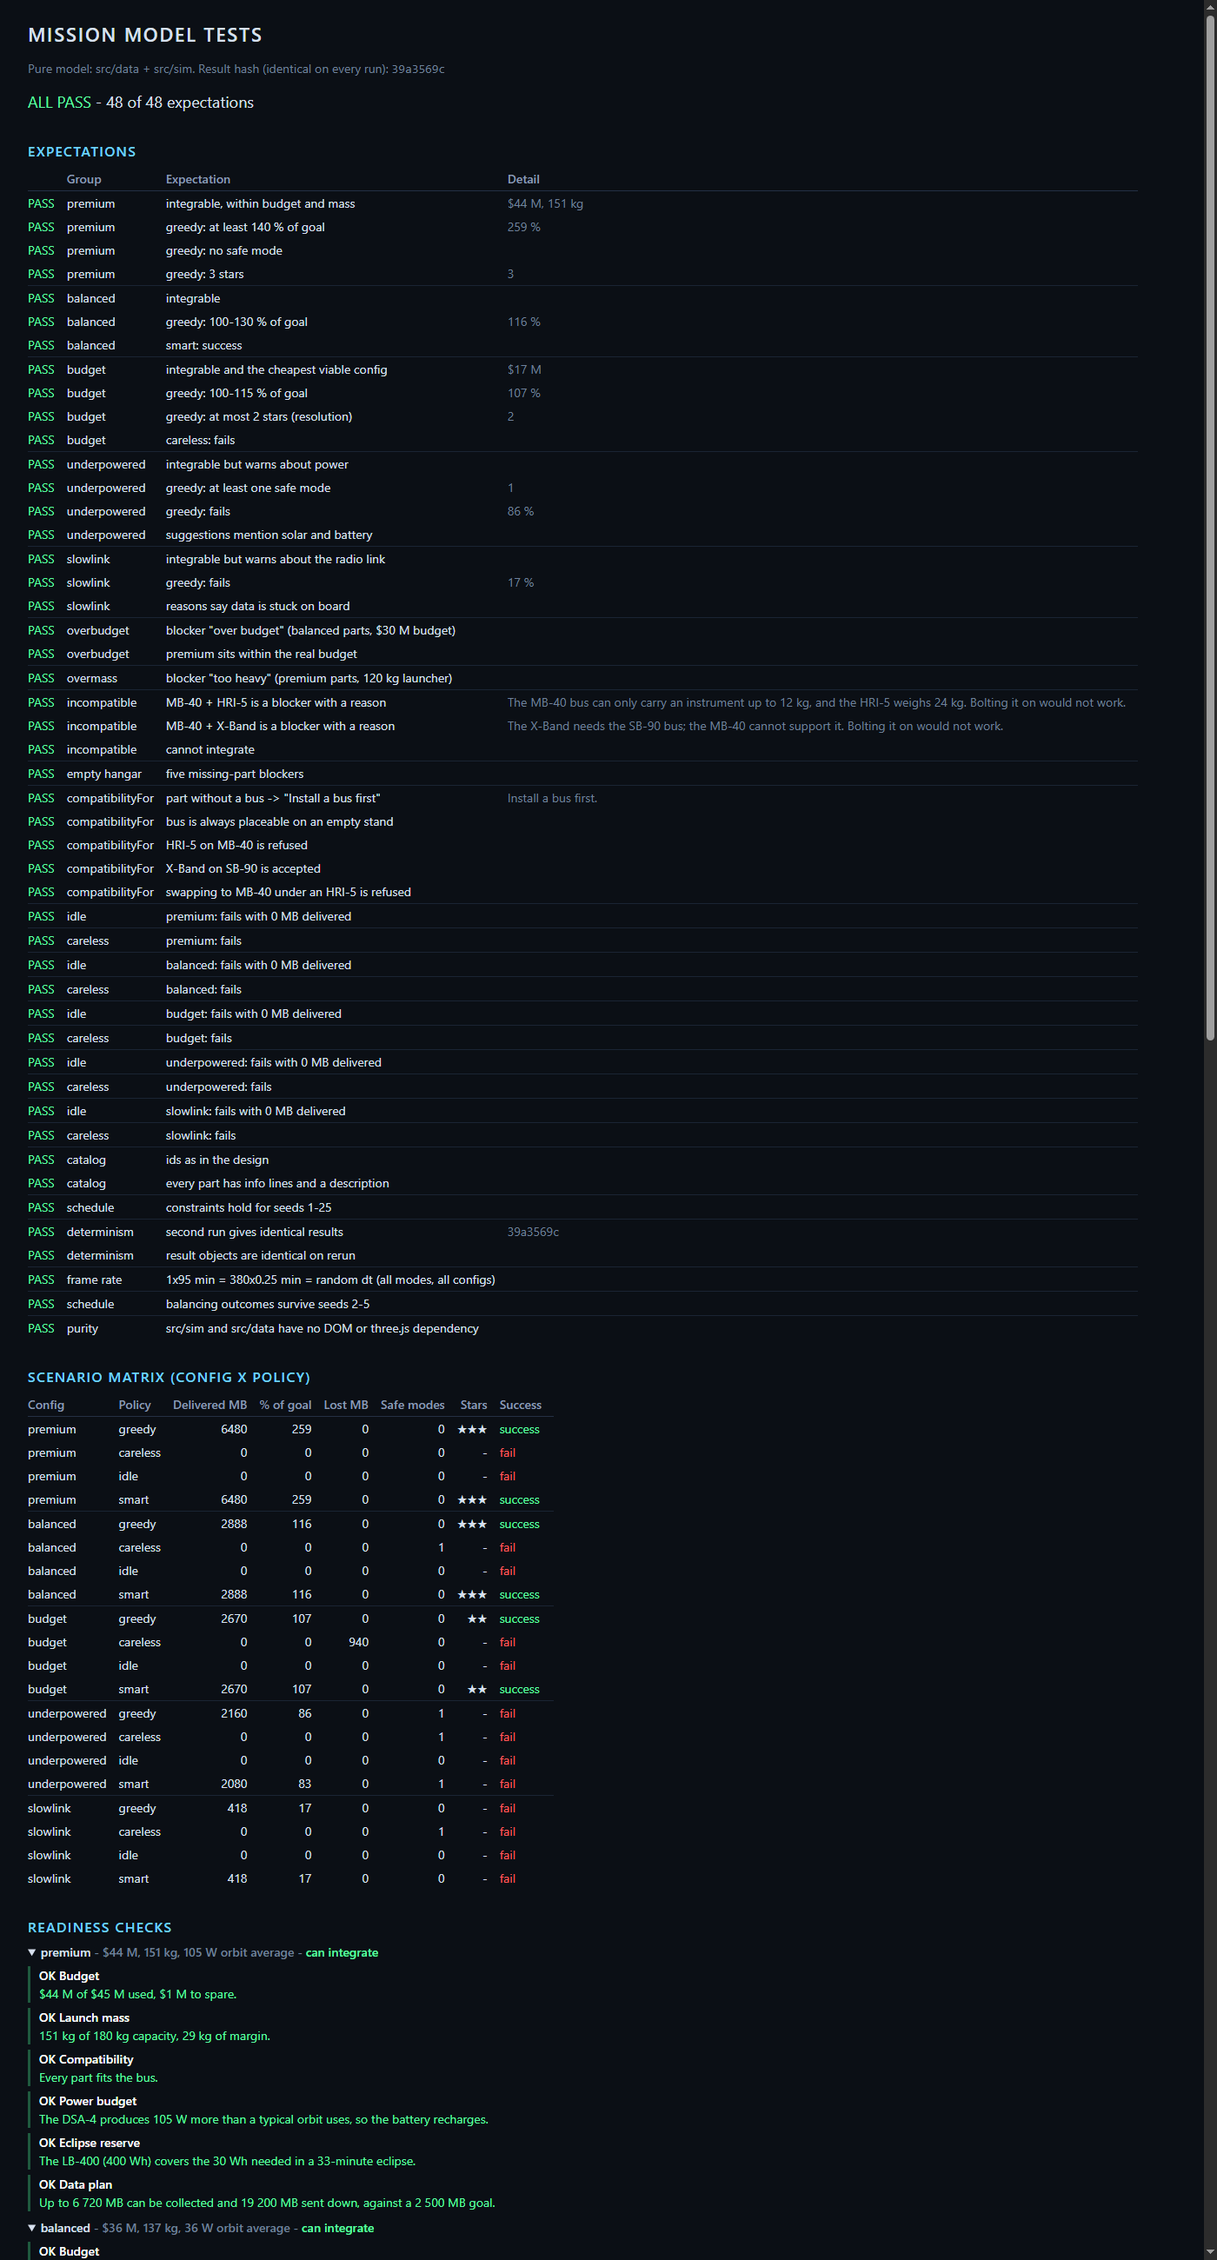
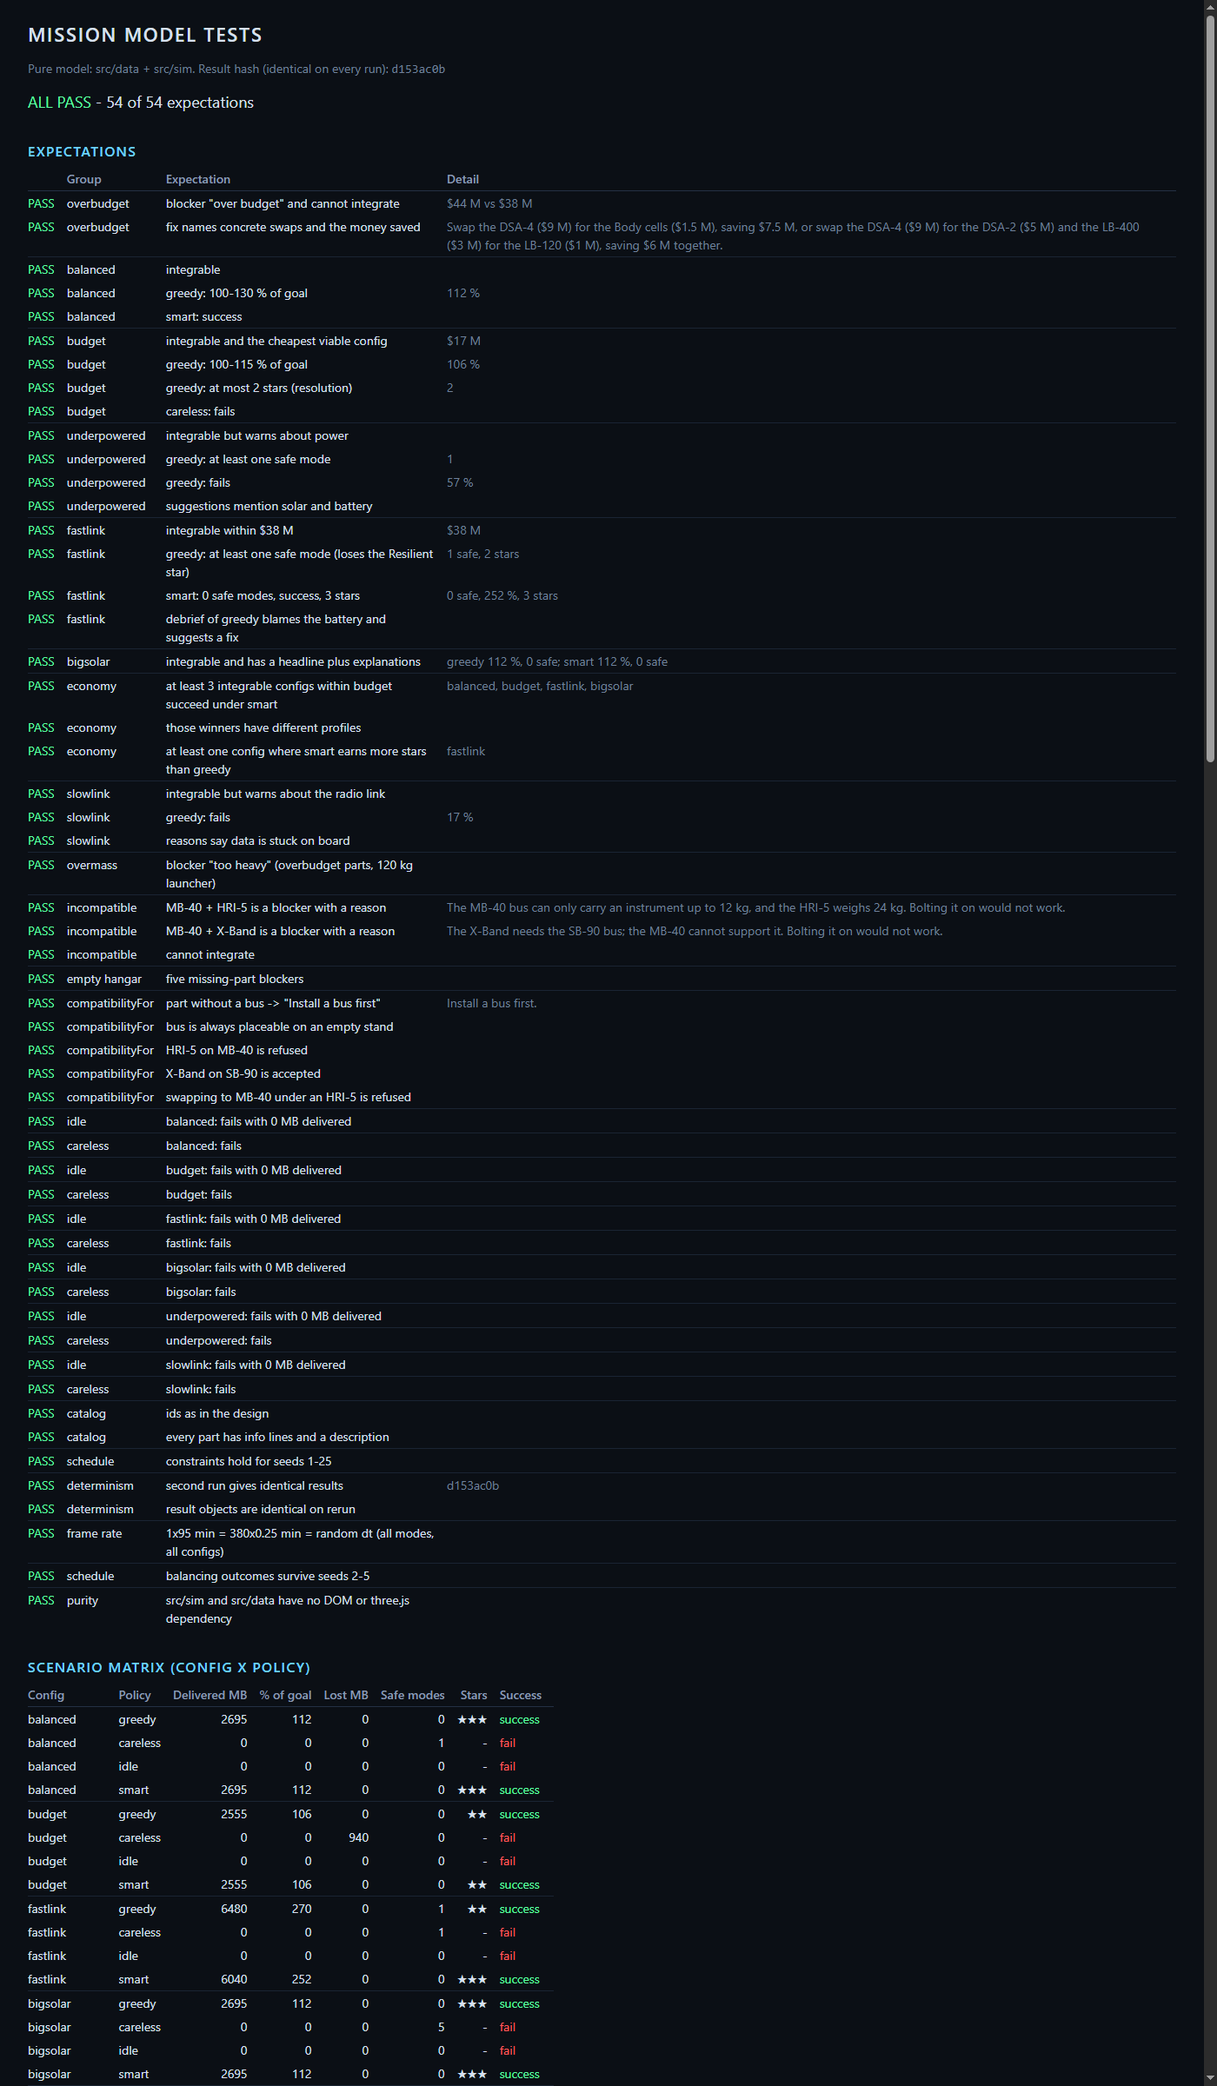
T2 rework: $38M budget, fastlink and bigsolar presets, piloting matters, economy tests

diff --git a/tests/sim-tests.js b/tests/sim-tests.js
@@ -43,12 +43,10 @@ function buildMatrix() {
 }
 
 function readinessReport() {
-  const tight = { ...mission, budgetMusd: 30 };
   const light = { ...mission, capacityKg: 120 };
   const cases = [
     ...Object.entries(presets).map(([name, a]) => [name, a, mission]),
-    ['overbudget (balanced parts, $30 M budget)', presets.balanced, tight],
-    ['overmass (premium parts, 120 kg launcher)', presets.premium, light],
+    ['overmass (overbudget parts, 120 kg launcher)', presets.overbudget, light],
     ['empty hangar', {}, mission],
   ];
   return cases.map(([name, assembly, m]) => ({ name, ...evaluateAssembly(assembly, m) }));
@@ -135,14 +133,12 @@ export async function runSimTests() {
   const hasCheck = (name, id, severity) => ready(name).checks.some((c) => c.id === id && c.severity === severity);
   const detailOf = (name, id) => ready(name).checks.find((c) => c.id === id)?.detail ?? '';
 
-  // premium
-  expect('premium', 'integrable, within budget and mass', ready('premium').canIntegrate
-    && ready('premium').totals.cost <= mission.budgetMusd && ready('premium').totals.mass <= mission.capacityKg,
-  `$${ready('premium').totals.cost} M, ${ready('premium').totals.mass} kg`);
-  const pg = row('premium', 'greedy');
-  expect('premium', 'greedy: at least 140 % of goal', pg.pct >= 140, `${pg.pct} %`);
-  expect('premium', 'greedy: no safe mode', pg.safeModes === 0);
-  expect('premium', 'greedy: 3 stars', pg.stars === 3, `${pg.stars}`);
+  // overbudget (the priciest part of every category)
+  const ob = ready('overbudget');
+  expect('overbudget', 'blocker "over budget" and cannot integrate', hasCheck('overbudget', 'over_budget', 'blocker') && !ob.canIntegrate,
+    `$${ob.totals.cost} M vs $${mission.budgetMusd} M`);
+  expect('overbudget', 'fix names concrete swaps and the money saved', /Swap the .* for the .*saving \$/.test(ob.checks.find((c) => c.id === 'over_budget').fix),
+    ob.checks.find((c) => c.id === 'over_budget').fix);
 
   // balanced
   expect('balanced', 'integrable', ready('balanced').canIntegrate);
@@ -153,7 +149,7 @@ export async function runSimTests() {
   // budget
   const budgetCost = ready('budget').totals.cost;
   expect('budget', 'integrable and the cheapest viable config', ready('budget').canIntegrate
-    && ['premium', 'balanced', 'underpowered', 'slowlink'].every((n) => budgetCost < ready(n).totals.cost), `$${budgetCost} M`);
+    && ['balanced', 'fastlink', 'bigsolar', 'underpowered', 'slowlink'].every((n) => budgetCost < ready(n).totals.cost), `$${budgetCost} M`);
   const ug = row('budget', 'greedy');
   expect('budget', 'greedy: 100-115 % of goal', ug.pct >= 100 && ug.pct <= 115, `${ug.pct} %`);
   expect('budget', 'greedy: at most 2 stars (resolution)', ug.stars === 2, `${ug.stars}`);
@@ -168,16 +164,38 @@ export async function runSimTests() {
   const upText = upResult.suggestions.join(' ');
   expect('underpowered', 'suggestions mention solar and battery', /solar/i.test(upText) && /battery/i.test(upText));
 
+  // fastlink: the piloting test
+  const fl = ready('fastlink');
+  expect('fastlink', `integrable within $${mission.budgetMusd} M`, fl.canIntegrate && fl.totals.cost <= mission.budgetMusd, `$${fl.totals.cost} M`);
+  const flg = row('fastlink', 'greedy');
+  const fls = row('fastlink', 'smart');
+  expect('fastlink', 'greedy: at least one safe mode (loses the Resilient star)', flg.safeModes >= 1 && flg.stars <= 2, `${flg.safeModes} safe, ${flg.stars} stars`);
+  expect('fastlink', 'smart: 0 safe modes, success, 3 stars', fls.safeModes === 0 && fls.success && fls.stars === 3, `${fls.safeModes} safe, ${fls.pct} %, ${fls.stars} stars`);
+  expect('fastlink', 'debrief of greedy blames the battery and suggests a fix', (() => {
+    const r = fly(presets.fastlink, 'greedy');
+    return r.reasons.some((x) => /Battery ran flat/.test(x)) && r.suggestions.some((x) => /battery|SUN-POINT/i.test(x));
+  })());
+
+  // bigsolar: reported only, but its debrief must be readable
+  const bsr = fly(presets.bigsolar, 'greedy');
+  expect('bigsolar', 'integrable and has a headline plus explanations', ready('bigsolar').canIntegrate && bsr.reasons.length >= 1 && bsr.positives.length >= 1,
+    `greedy ${row('bigsolar', 'greedy').pct} %, ${row('bigsolar', 'greedy').safeModes} safe; smart ${row('bigsolar', 'smart').pct} %, ${row('bigsolar', 'smart').safeModes} safe`);
+
+  // economy: real trade-offs
+  const winners = Object.keys(presets).filter((n) => ready(n).canIntegrate && row(n, 'smart').success);
+  expect('economy', 'at least 3 integrable configs within budget succeed under smart', winners.length >= 3, winners.join(', '));
+  const profile = (n) => `${ready(n).totals.cost}|${presets[n].instrument}|${presets[n].antenna}`;
+  expect('economy', 'those winners have different profiles', new Set(winners.map(profile)).size === winners.length);
+  const pilotable = Object.keys(presets).filter((n) => ready(n).canIntegrate && row(n, 'smart').stars > row(n, 'greedy').stars);
+  expect('economy', 'at least one config where smart earns more stars than greedy', pilotable.length >= 1, pilotable.join(', '));
+
   // slowlink
   expect('slowlink', 'integrable but warns about the radio link', ready('slowlink').canIntegrate && hasCheck('slowlink', 'downlink_short', 'warning'));
   expect('slowlink', 'greedy: fails', !row('slowlink', 'greedy').success, `${row('slowlink', 'greedy').pct} %`);
   expect('slowlink', 'reasons say data is stuck on board', fly(presets.slowlink, 'greedy').reasons.some((r) => /on board/.test(r)));
 
   // blockers
-  expect('overbudget', 'blocker "over budget" (balanced parts, $30 M budget)', hasCheck('overbudget (balanced parts, $30 M budget)', 'over_budget', 'blocker')
-    && !ready('overbudget (balanced parts, $30 M budget)').canIntegrate);
-  expect('overbudget', 'premium sits within the real budget', ready('premium').totals.cost <= mission.budgetMusd);
-  expect('overmass', 'blocker "too heavy" (premium parts, 120 kg launcher)', hasCheck('overmass (premium parts, 120 kg launcher)', 'over_mass', 'blocker'));
+  expect('overmass', 'blocker "too heavy" (overbudget parts, 120 kg launcher)', hasCheck('overmass (overbudget parts, 120 kg launcher)', 'over_mass', 'blocker'));
   expect('incompatible', 'MB-40 + HRI-5 is a blocker with a reason', hasCheck('incompatible', 'incompatible_instrument', 'blocker')
     && /12 kg/.test(detailOf('incompatible', 'incompatible_instrument')), detailOf('incompatible', 'incompatible_instrument'));
   expect('incompatible', 'MB-40 + X-Band is a blocker with a reason', hasCheck('incompatible', 'incompatible_antenna', 'blocker')
@@ -191,7 +209,7 @@ export async function runSimTests() {
   expect('compatibilityFor', 'bus is always placeable on an empty stand', compatibilityFor('bus_micro', {}).ok);
   expect('compatibilityFor', 'HRI-5 on MB-40 is refused', !compatibilityFor('inst_hri', { bus: 'bus_micro' }).ok);
   expect('compatibilityFor', 'X-Band on SB-90 is accepted', compatibilityFor('ant_xband', { bus: 'bus_small' }).ok);
-  expect('compatibilityFor', 'swapping to MB-40 under an HRI-5 is refused', !compatibilityFor('bus_micro', presets.premium).ok);
+  expect('compatibilityFor', 'swapping to MB-40 under an HRI-5 is refused', !compatibilityFor('bus_micro', presets.overbudget).ok);
 
   // idle + careless
   for (const config of Object.keys(presets)) {
@@ -225,7 +243,8 @@ export async function runSimTests() {
   // robustness against the schedule seed
   const seedProblems = [];
   for (const s of [2, 3, 4, 5]) {
-    if (!fly(presets.premium, 'greedy', s).success) seedProblems.push(`premium fails with seed ${s}`);
+    if (fly(presets.fastlink, 'greedy', s).safeModeCount < 1) seedProblems.push(`fastlink greedy has no safe mode with seed ${s}`);
+    if (!fly(presets.fastlink, 'smart', s).success) seedProblems.push(`fastlink smart fails with seed ${s}`);
     if (!fly(presets.balanced, 'greedy', s).success) seedProblems.push(`balanced fails with seed ${s}`);
     if (!fly(presets.budget, 'greedy', s).success) seedProblems.push(`budget fails with seed ${s}`);
     if (fly(presets.underpowered, 'greedy', s).success) seedProblems.push(`underpowered succeeds with seed ${s}`);

diff --git a/src/sim/assembly.js b/src/sim/assembly.js
@@ -40,8 +40,8 @@ export function compatibilityFor(partId, assembly) {
   return reason ? { ok: false, reason } : { ok: true, reason: '' };
 }
 
-/** Best swap that saves at least `excess` of `key` (cost or mass); falls back to the biggest saving. */
-function savingSwap(parts, key, excess) {
+/** All single swaps to a cheaper (or lighter) compatible part of the same category. */
+function savingSwaps(parts, key) {
   const options = [];
   for (const cat of CATEGORIES) {
     const current = parts[cat];
@@ -51,8 +51,7 @@ function savingSwap(parts, key, excess) {
       if (saving > 0 && !incompatibility(alt, parts.bus)) options.push({ current, alt, saving });
     }
   }
-  const enough = options.filter((o) => o.saving >= excess).sort((a, b) => a.saving - b.saving);
-  return enough[0] ?? options.sort((a, b) => b.saving - a.saving)[0];
+  return options;
 }
 
 function estimateTotals(parts, mission) {
@@ -120,7 +119,7 @@ export function evaluateAssembly(assembly, mission) {
     add('over_budget', 'blocker', 'Over budget',
       `The parts cost ${fmtMusd(totals.cost)} but the mission budget is ${fmtMusd(mission.budgetMusd)}, `
       + `${fmtMusd(Math.round((totals.cost - mission.budgetMusd) * 10) / 10)} too much.`,
-      swapAdvice(savingSwap(parts, 'cost', totals.cost - mission.budgetMusd), 'cost', fmtMusd));
+      swapAdvice(parts, 'cost', totals.cost - mission.budgetMusd, fmtMusd));
   } else if (parts.bus) {
     add('budget', 'ok', 'Budget',
       `${fmtMusd(totals.cost)} of ${fmtMusd(mission.budgetMusd)} used, ${fmtMusd(Math.round((mission.budgetMusd - totals.cost) * 10) / 10)} to spare.`);
@@ -129,7 +128,7 @@ export function evaluateAssembly(assembly, mission) {
     add('over_mass', 'blocker', 'Too heavy for the rocket',
       `The satellite weighs ${fmt(totals.mass)} kg but the launcher can lift only ${fmt(mission.capacityKg)} kg to orbit, `
       + `${fmt(totals.mass - mission.capacityKg)} kg too much.`,
-      swapAdvice(savingSwap(parts, 'mass', totals.mass - mission.capacityKg), 'mass', (n) => `${fmt(n)} kg`));
+      swapAdvice(parts, 'mass', totals.mass - mission.capacityKg, (n) => `${fmt(n)} kg`));
   } else if (parts.bus) {
     add('mass', 'ok', 'Launch mass',
       `${fmt(totals.mass)} kg of ${fmt(mission.capacityKg)} kg capacity, ${fmt(mission.capacityKg - totals.mass)} kg of margin.`);
@@ -156,11 +155,24 @@ export function evaluateAssembly(assembly, mission) {
   return { totals, checks, canIntegrate };
 }
 
-function swapAdvice(swap, key, format) {
-  if (!swap) return 'Choose cheaper or lighter parts.';
-  const unit = format(swap.current[key]);
-  return `Swap the ${swap.current.shortName} (${unit}) for the ${swap.alt.shortName} (${format(swap.alt[key])}), `
-    + `which saves ${format(Math.round(swap.saving * 10) / 10)}.`;
+/** Concrete fix text: the mildest single swap that covers `excess`, plus a two-swap alternative. */
+function swapAdvice(parts, key, excess, format) {
+  const options = savingSwaps(parts, key);
+  const describe = (o) => `the ${o.current.shortName} (${format(o.current[key])}) for the ${o.alt.shortName} (${format(o.alt[key])})`;
+  const amount = (n) => format(Math.round(n * 10) / 10);
+  const singles = options.filter((o) => o.saving >= excess).sort((a, b) => a.saving - b.saving);
+  const pairs = [];
+  options.forEach((x, i) => options.slice(i + 1).forEach((y) => {
+    if (x.current.category !== y.current.category && x.saving + y.saving >= excess) pairs.push([x, y]);
+  }));
+  pairs.sort((a, b) => a[0].saving + a[1].saving - b[0].saving - b[1].saving);
+  const advice = [];
+  if (singles[0]) advice.push(`Swap ${describe(singles[0])}, saving ${amount(singles[0].saving)}`);
+  if (pairs[0]) {
+    const [x, y] = pairs[0];
+    advice.push(`${advice.length ? 'or swap' : 'Swap'} ${describe(x)} and ${describe(y)}, saving ${amount(x.saving + y.saving)} together`);
+  }
+  return advice.length ? advice.join(', ') + '.' : 'Choose cheaper or lighter parts.';
 }
 
 function incompatibleFix(cat, parts) {

diff --git a/src/data/components.js b/src/data/components.js
@@ -17,7 +17,7 @@ const PARTS = [
     mass: 40, cost: 5,
     description: 'A compact, thrifty frame that carries a small camera and not much else.',
     stats: {
-      baseLoadW: 20, storageMB: 2000, maxInstrumentKg: 12,
+      baseLoadW: 30, storageMB: 2000, maxInstrumentKg: 12,
       allows: { solar: ['sol_body', 'sol_2wing'], antenna: ['ant_uhf', 'ant_sband'] },
     },
   },
@@ -26,7 +26,7 @@ const PARTS = [
     mass: 90, cost: 11,
     description: 'A sturdy, roomy backbone with big on-board memory that welcomes every payload.',
     stats: {
-      baseLoadW: 40, storageMB: 8000, maxInstrumentKg: 40,
+      baseLoadW: 65, storageMB: 8000, maxInstrumentKg: 40,
       allows: {
         solar: ['sol_body', 'sol_2wing', 'sol_4panel'],
         antenna: ['ant_uhf', 'ant_sband', 'ant_xband'],
@@ -37,31 +37,31 @@ const PARTS = [
     id: 'inst_wfc', category: 'instrument', name: 'WFC-30 Wide-Field Camera', shortName: 'WFC-30',
     mass: 9, cost: 4,
     description: 'A light, frugal camera that sweeps wide swaths but sees only the big picture.',
-    stats: { powerW: 40, dataRateMBmin: 70, resolutionM: 30 },
+    stats: { powerW: 45, dataRateMBmin: 70, resolutionM: 30 },
   },
   {
     id: 'inst_hri', category: 'instrument', name: 'HRI-5 Hi-Res Multispectral Imager', shortName: 'HRI-5',
     mass: 24, cost: 15,
     description: 'A power-hungry eye sharp enough to pick a single fire front out of a forest.',
-    stats: { powerW: 130, dataRateMBmin: 160, resolutionM: 5 },
+    stats: { powerW: 290, dataRateMBmin: 160, resolutionM: 5 },
   },
   {
     id: 'sol_body', category: 'solar', name: 'Body-Mounted Cells', shortName: 'Body cells',
     mass: 4, cost: 1.5,
     description: 'Solar cells glued straight onto the satellite walls: simple, light, and weak.',
-    stats: { powerW: 40 },
+    stats: { powerW: 55 },
   },
   {
     id: 'sol_2wing', category: 'solar', name: 'DSA-2 Deployable 2-Wing Array', shortName: 'DSA-2',
     mass: 12, cost: 5,
     description: 'Two folding wings that unfurl in orbit and turn sunlight into a steady supply.',
-    stats: { powerW: 180 },
+    stats: { powerW: 190 },
   },
   {
     id: 'sol_4panel', category: 'solar', name: 'DSA-4 Four-Panel Array', shortName: 'DSA-4',
     mass: 22, cost: 9,
     description: 'Four broad panels that flood the satellite with power, if the bus can hold them.',
-    stats: { powerW: 320, requiresBus: ['bus_small'] },
+    stats: { powerW: 480, requiresBus: ['bus_small'] },
   },
   {
     id: 'bat_120', category: 'battery', name: 'LB-120 Li-ion Pack', shortName: 'LB-120',
@@ -85,13 +85,13 @@ const PARTS = [
     id: 'ant_sband', category: 'antenna', name: 'S-Band Patch', shortName: 'S-Band',
     mass: 2, cost: 2,
     description: 'A flat patch antenna, the dependable middle road for small missions.',
-    stats: { powerW: 20, rateMBmin: 75 },
+    stats: { powerW: 60, rateMBmin: 70 },
   },
   {
     id: 'ant_xband', category: 'antenna', name: 'X-Band Dish', shortName: 'X-Band',
     mass: 6, cost: 6,
     description: 'A steerable dish that empties the memory in a single ground-station pass.',
-    stats: { powerW: 60, rateMBmin: 400, requiresBus: ['bus_small'] },
+    stats: { powerW: 120, rateMBmin: 400, requiresBus: ['bus_small'] },
   },
 ];
 

diff --git a/src/data/mission.js b/src/data/mission.js
@@ -4,9 +4,9 @@ export const mission = {
   id: 'lumen-1',
   satellite: 'LUMEN-1',
   name: 'FIRST LIGHT',
-  budgetMusd: 45,
+  budgetMusd: 38,
   capacityKg: 180,
-  goalMB: 2500,
+  goalMB: 2400,
 
   orbit: {
     orbits: 3,
@@ -56,8 +56,8 @@ export const mission = {
       + 'The first hours decide whether a spark becomes a catastrophe, and those hours are the ones we cannot see.',
     'LUMEN-1 is our answer: a small Earth-observation satellite that circles the planet every 95 minutes '
       + 'and photographs regions at risk of wildfire. You will design it, build it with your own hands, and fly it.',
-    'You have $45 million, a rocket that can lift 180 kg, and three orbits. The satellite must send at least '
-      + '2 500 MB of imagery down to the ground stations. Power, memory and radio speed all pull against each other, '
+    'You have $38 million, a rocket that can lift 180 kg, and three orbits. The satellite must send at least '
+      + '2 400 MB of imagery down to the ground stations. Power, memory and radio speed all pull against each other, '
       + 'and every part you choose has a price in kilograms, dollars and watts.',
     'Bring home first light.',
   ],

diff --git a/src/data/presets.js b/src/data/presets.js
@@ -3,9 +3,11 @@
 const make = (bus, instrument, solar, battery, antenna) => ({ bus, instrument, solar, battery, antenna });
 
 export const presets = {
-  premium: make('bus_small', 'inst_hri', 'sol_4panel', 'bat_400', 'ant_xband'),
+  overbudget: make('bus_small', 'inst_hri', 'sol_4panel', 'bat_400', 'ant_xband'), // over budget: the priciest part of every category
   balanced: make('bus_small', 'inst_hri', 'sol_2wing', 'bat_400', 'ant_sband'),
   budget: make('bus_micro', 'inst_wfc', 'sol_2wing', 'bat_120', 'ant_sband'),
+  fastlink: make('bus_small', 'inst_hri', 'sol_2wing', 'bat_120', 'ant_xband'),
+  bigsolar: make('bus_small', 'inst_hri', 'sol_4panel', 'bat_120', 'ant_sband'),
   underpowered: make('bus_small', 'inst_hri', 'sol_body', 'bat_120', 'ant_xband'),
   slowlink: make('bus_small', 'inst_hri', 'sol_2wing', 'bat_400', 'ant_uhf'),
   incompatible: make('bus_micro', 'inst_hri', 'sol_2wing', 'bat_120', 'ant_xband'),

diff --git a/src/sim/analysis.js b/src/sim/analysis.js
@@ -4,7 +4,7 @@ import { fmt, fmtMB } from '../data/format.js';
 import { starsFor } from '../data/mission.js';
 import { evaluateAssembly } from './assembly.js';
 
-const MODE_ACTIVITY = { SUN: 'sitting in SUN-POINT', IMAGE: 'imaging', DOWNLINK: 'downlinking', SAFE: 'in safe mode' };
+const MODE_ACTIVITY = { SUN: 'running only its base systems in SUN-POINT', IMAGE: 'imaging', DOWNLINK: 'downlinking', SAFE: 'in safe mode' };
 const UNUSED_PASS_NOTE_MIN = 12;
 const SLOW_LINK_GOAL_RATIO = 2; // a link that can carry under 2x the goal over all passes counts as slow
 const round1 = (n) => Math.round(n * 10) / 10;
